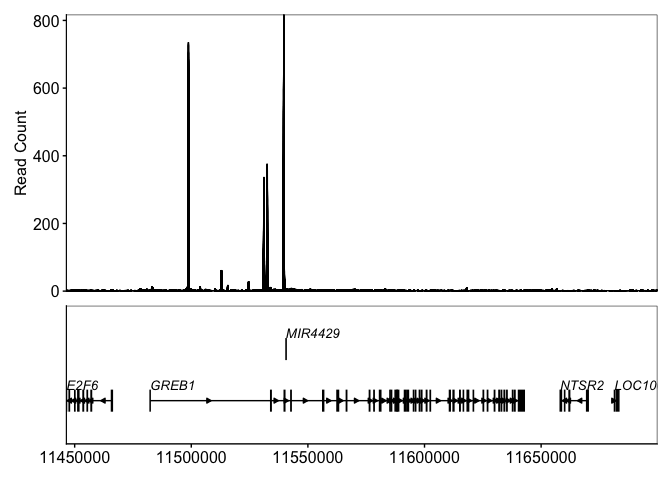
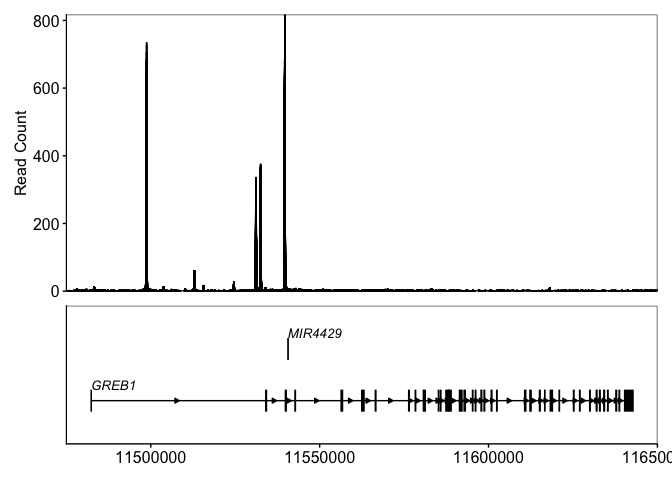
Updated README

diff --git a/README.md b/README.md
@@ -40,8 +40,8 @@ set_theme_modern()
 
 # set region and reference genome
 bw_file = "~/Downloads/ESR1.bigWig"
-region <- "chr2:11446438-11699848"
-txdb <- TxDb.Hsapiens.UCSC.hg38.knownGene
+region <- "chr2:11475000-11650000"
+txdb <- TxDb.Hsapiens.UCSC.hg38.knownGene # remember to grab the correct TxDb amd orgdb for your reference genome
 orgdb <- org.Hs.eg.db
 
 # plot BigWig track
@@ -102,6 +102,9 @@ heatmap +
   arcs_track(data.frame("chr2", 11500000, 11540000, 2), region, arc_color = "red") +
   
   plot_layout(ncol = 1, heights = c(1,1,0.5), axes = "collect_x")
+#> Warning in qt((1 - level)/2, df): NaNs produced
+#> Warning in max(ids, na.rm = TRUE): no non-missing arguments to max; returning
+#> -Inf
 ```
 
 <img src="man/figures/README-unnamed-chunk-3-1.png" width="100%"/>
